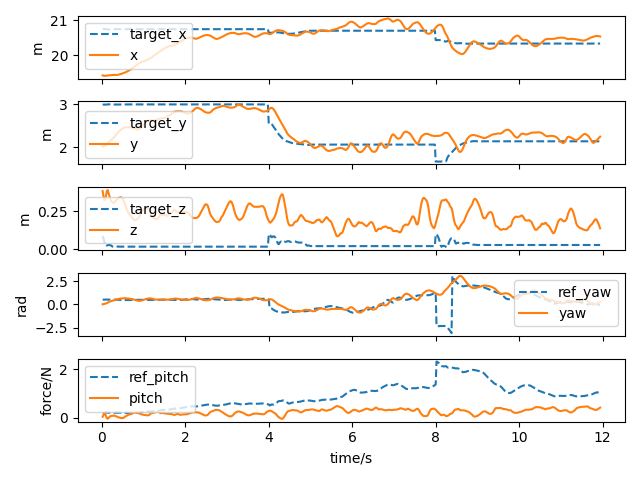
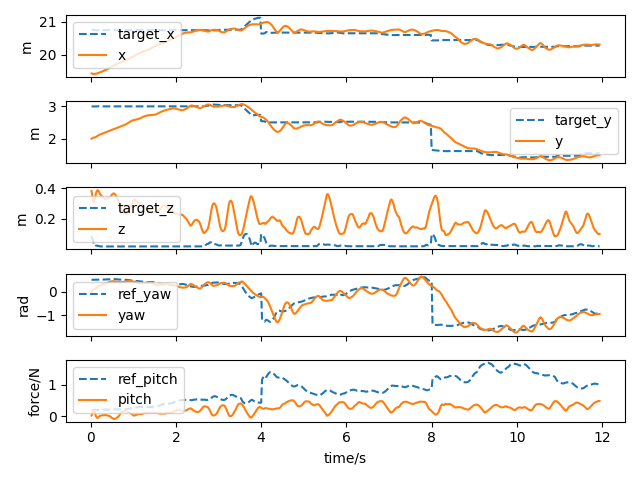
larger gripper collision

diff --git a/legged_gym/legged_gym/envs/go1g/go1gbox.py b/legged_gym/legged_gym/envs/go1g/go1gbox.py
@@ -310,7 +310,7 @@ class Go1GB(BaseTask):
         if self.viewer and self.enable_viewer_sync and self.debug_viz:
             self.gym.clear_lines(self.viewer)
             # self._draw_height_samples()
-            self._draw_goals()
+            # self._draw_goals()
             # self._draw_feet()
             if self.cfg.depth.use_camera:
                 window_name = "Depth Image"
@@ -1415,6 +1415,13 @@ class Go1GB(BaseTask):
         clip_height = torch.clip(box_height,0,max_height) 
         rew = torch.exp((-max_height+clip_height)/self.cfg.rewards.pick_sigma) 
         # print(f"rew_box_height:{rew}")
+        return rew
+    
+    def _reward_box_vel(self):
+        box_xy_vel = self.box_states[:,7:9]
+        box_vel = torch.norm(box_xy_vel, dim=-1)
+        rew = (box_vel > 0.1).float()
+        # print(f"rew_box_vel:{rew}")
         return rew
     
     def _reward_fit_truth(self):

diff --git a/legged_gym/legged_gym/envs/go1g/go1gb_config.py b/legged_gym/legged_gym/envs/go1g/go1gb_config.py
@@ -130,18 +130,19 @@ class Go1GBRoughCfg( LeggedRobotCfg ):
             # tracking_gripper = 0.5
 
             # fit ground truth data
-            fit_truth = 0.5*0  # 2.5 for approach else 0.5
+            fit_truth = 0.5  # 2.5 for approach else 0.5
 
             # pickup rewards not applicable for approaching
             pickup_box = 3
             box_height = 2
+            box_vel = 2*0
 
             # regularization rewards
             # lin_vel_z = -1.0
             # ang_vel_xy = -0.05
             # orientation = -1.
             # dof_acc = -2.5e-7
-            collision = -1.*0
+            collision = -1.
             # action_rate = -0.1
             # delta_torques = -1.0e-7
             # torques = -0.00001

diff --git a/legged_gym/legged_gym/scripts/train.py b/legged_gym/legged_gym/scripts/train.py
@@ -47,7 +47,9 @@ def train(args):
     except:
         pass
     if args.debug:
-        mode = "disabled"
+        args.headless = False
+        mode = "online"
+        # mode = "disabled"
         args.rows = 10
         args.cols = 8
         args.num_envs = 64

diff --git a/legged_gym/legged_gym/scripts/play.py b/legged_gym/legged_gym/scripts/play.py
@@ -262,6 +262,6 @@ def play(args):
 if __name__ == '__main__':
     EXPORT_POLICY = False
     RECORD_FRAMES = False
-    MOVE_CAMERA = False
+    MOVE_CAMERA = True
     args = get_args()
     play(args)
